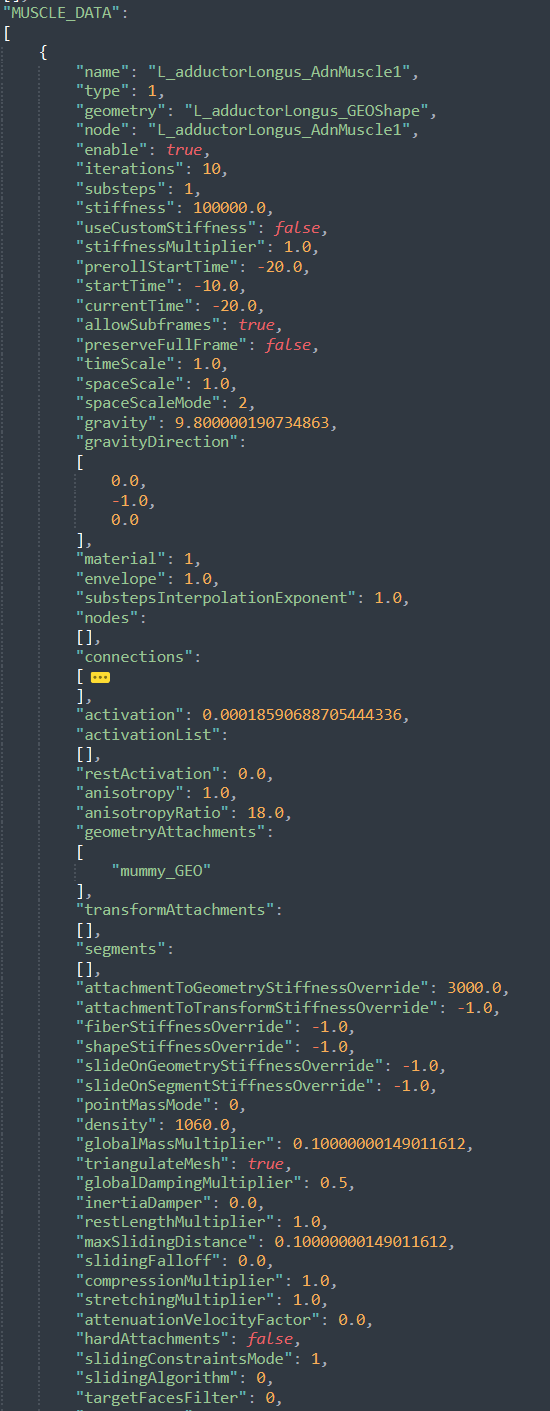
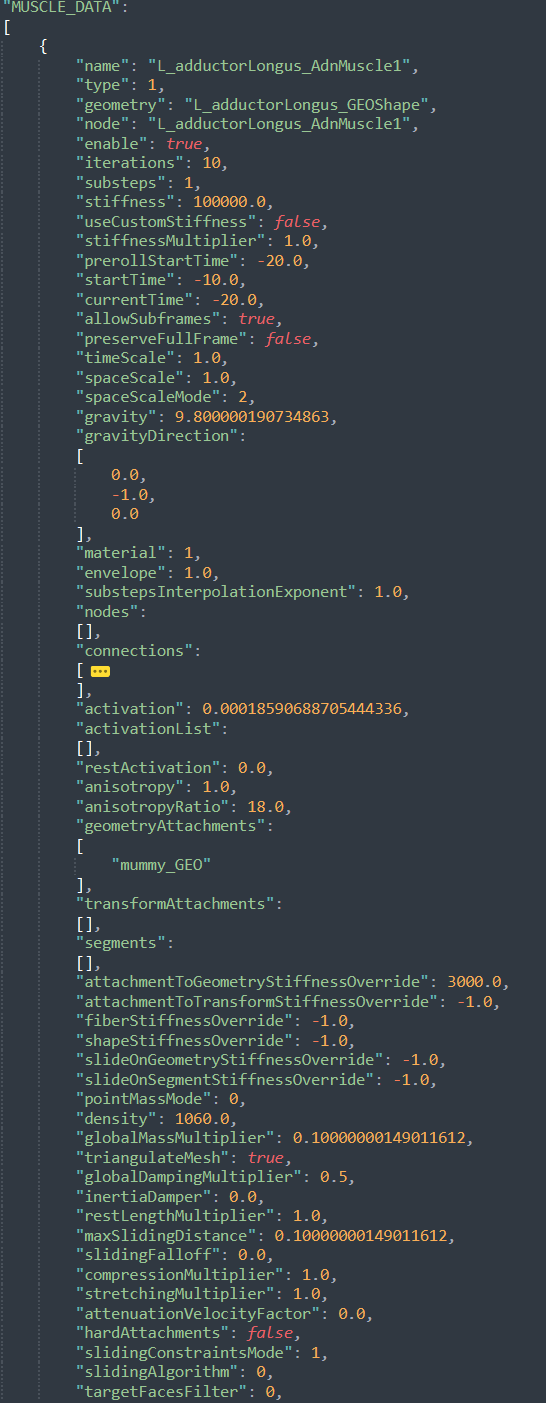
Minor adjustments in figures (simple setup and maya/hou api)

Changed region(s): [[0.0, 0.0, 0.8718, 1.0], [0.8095, 0.6743, 0.9341, 0.7356], [0.685, 0.3984, 0.7473, 0.4291]]

diff --git a/docs/maya/simple_setup.md b/docs/maya/simple_setup.md
@@ -51,7 +51,7 @@ Start by painting attachment weights, painting the influence for each target by 
   <figcaption><b>Figure 3</b>: Transform Attachment influences (joints and locators).</figcaption>
 </figure>
 
-<figure style="width:75%" markdown>
+<figure markdown>
   ![Geometry Attachment influences (meshes)](images/simple_setup_muscle_paint_geometry_attach.png)
   <figcaption><b>Figure 4</b>: Geometry Attachment influences (meshes).</figcaption>
 </figure>
